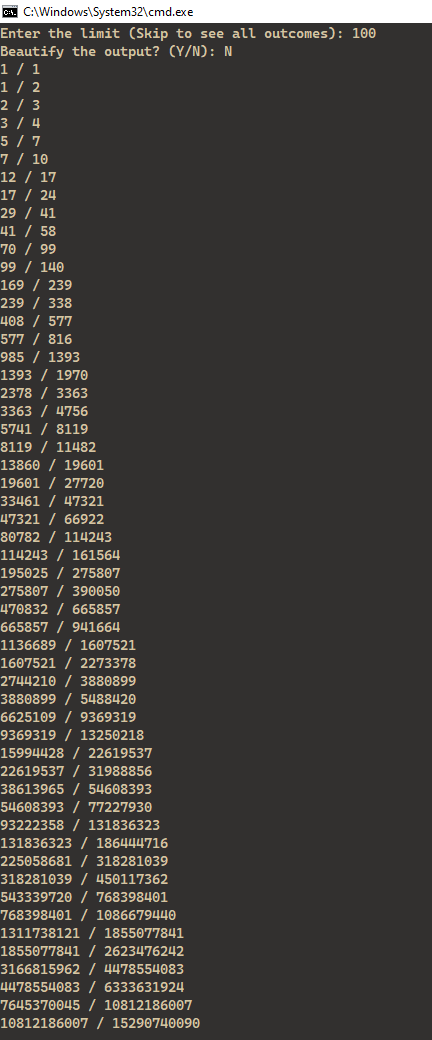
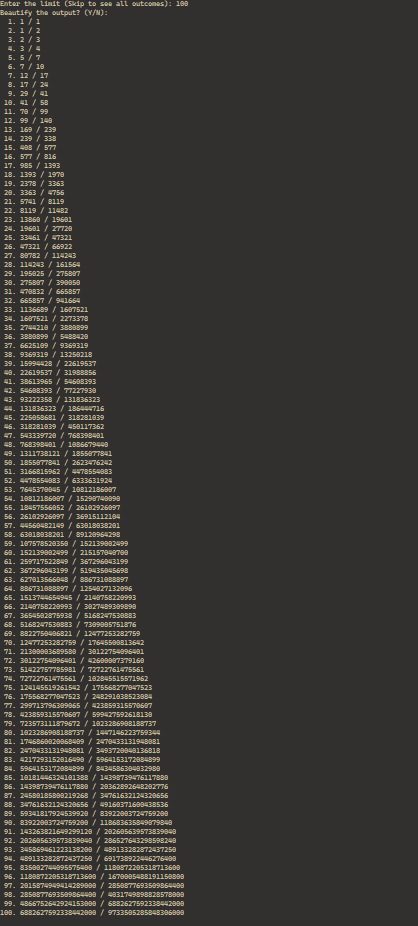
docs: update output section in README to reflect first 50 elements

Changed region(s): [[0.0, 0.0, 1.0, 0.9978]]

diff --git a/README.md b/README.md
@@ -10,9 +10,9 @@ Run on StackBlitz: [https://stackblitz.com/~/github.com/Jay-Karia/series-gen](ht
 
 ## Output
 
-The beautified output for first 10 terms of the series
+The output for first 50 elements of the series
 
-![Output](./public/output.jpeg)
+![Output](./public/first50.png)
 
 ### Development
 
